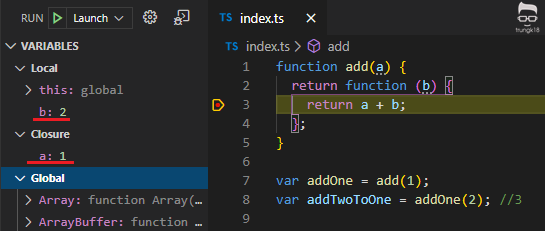
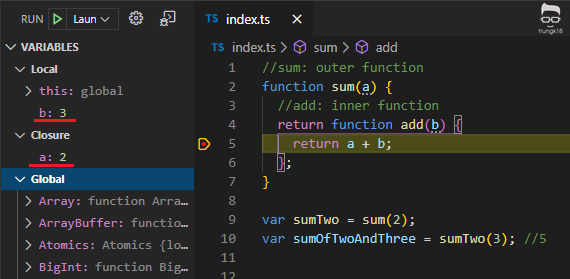
Update closure with refactor code

diff --git a/_posts/2020-05-30-javascript-closure.md b/_posts/2020-05-30-javascript-closure.md
@@ -22,37 +22,61 @@ After more than four years working with JavaScript and has built many applicatio
 Consider the following example
 
 ```javascript
-//add: outer function
-function add(a) {
-
-  //addMore: inner function
-  return function addMore(b) {
+//sum: outer function
+function sum(a) {
+  //add: inner function
+  return function add(b) {
     return a + b;
   };
 }
 
-var addOne = add(1);
-var sumOfOnePlusTwo = addOne(2); //3
+var sumTwo = sum(2);
+var sumOfTwoAndThree = sumTwo(3); //5
 ```
 
-1. Function `add` was created with an argument `a`. When invoke `add`, it will return another function `addMore` that has `b` as the local argument. Noted that how `addMore` also has access to `a`, which is the argument of the outer function `add`.
+1. Function `sum` was created with an argument `a`. When invoke `sum`, it will return another function `add` that has `b` as the local argument. Noted that how `add` also has access to `a`, which is the argument of the outer function `sum`.
 
-2. I created a variable `addOne` and assigned it to the return value of `add(1)`. At this point, `addOne` is actually another function that can be invoked.
+2. I created a variable `sumTwo` and assigned it to the return value of `sum(2)`. At this point, `sumTwo` is actually another function that can be invoked, which is `add(b)`.
 
-3. I created another variable `sumOfOnePlusTwo` and assigned it to the return value of `addOne(2)`, which is 3. 
-It means that somehow, the `addOne` function has access to `1`, and then do the add operation with `2` that I passed in.
+3. I created another variable `sumOfTwoAndThree` and assigned it to the return value of `sumTwo(3)`, which is 5. 
 
-Where is the value `1` of an argument `a` stored, even the function `add` has already been executed and its value was assigned to `addOne`?
+It means that somehow, the `sumTwo` function still has access to `2`, and then do the add operation with `3` that I passed in.
 
-In some programming languages, the local variables within a function exist for just the duration of that function's execution. Once `add()` finishes executing, you might expect that the `a` argument would no longer be accessible. However, because the code still works as expected, this is obviously not the case in JavaScript.
+Where is the value `2` of an argument `a` stored, even the function `sum` has already been executed and its value was assigned to `sumTwo`?
+
+In some programming languages, the local variables within a function exist for just the duration of that function's execution. Once `sum()` finishes executing, you might expect that the `a` argument would no longer be accessible. However, because the code still works as expected, this is obviously not the case in JavaScript.
 
 The reason is that functions in JavaScript form **closures**.
 
-A closure is a combination of a function bundled together (enclosed) with references to its surrounding state (the lexical environment). In other words, a closure gives **you access to an outer function’s scope from an inner function**. <u>Even if the outer function has already been invoked.</u>
+A <u>closure</u> is a combination of a function bundled together (enclosed) with references to its surrounding state (the lexical environment). In other words, a closure gives **you access to an outer function’s scope from an inner function**. <u>Even if the outer function has already been invoked.</u>
 
 ![What is JavaScript Closure?](https://github.com/trungk18/trungk18.github.io/raw/master/img/blog/javascript-closure-01.png)
 
-Look at the above screenshot from VSCode debugger, you will see that when invoked the `addOne(2)`, the closure contains `a : 1`. While the local scope contains `b : 2`.
+Look at the above screenshot from VSCode debugger, you will see that when invoked the `sumTwo(3)`, the closure contains `a : 2`. While the local scope contains `b : 3`.
+
+You could also invoke the function differently.
+
+```javascript
+//sum: outer function
+function sum(a) {
+  //add: inner function
+  return function add(b) {
+    return a + b;
+  };
+}
+
+sum(2)(3);
+
+// Is equivalent to...
+sum(2);
+function add(b){
+    return 2+b;
+}
+add(3);
+
+// Which becomes...
+return 2+3; // 5
+```
 
 ## Usage
 
@@ -119,9 +143,11 @@ document.getElementById('size-16').onclick = size16;
 
 - [https://developer.mozilla.org/en-US/docs/Web/JavaScript/Closures][3]
 - [https://stackoverflow.com/a/111111/3375906][4]
+- [https://stackoverflow.com/a/35320692/3375906][5]
 
 [0]: https://www.w3schools.com/js/js_function_closures.asp
 [1]: https://addyosmani.com/resources/essentialjsdesignpatterns/book/#revealingmodulepatternjavascript
 [2]: https://trungk18.com/experience/limit-the-number-of-simultaneous-ajax-requests/
 [3]: https://developer.mozilla.org/en-US/docs/Web/JavaScript/Closures
 [4]: https://stackoverflow.com/a/111111/3375906
+[5]: https://stackoverflow.com/a/35320692/3375906
